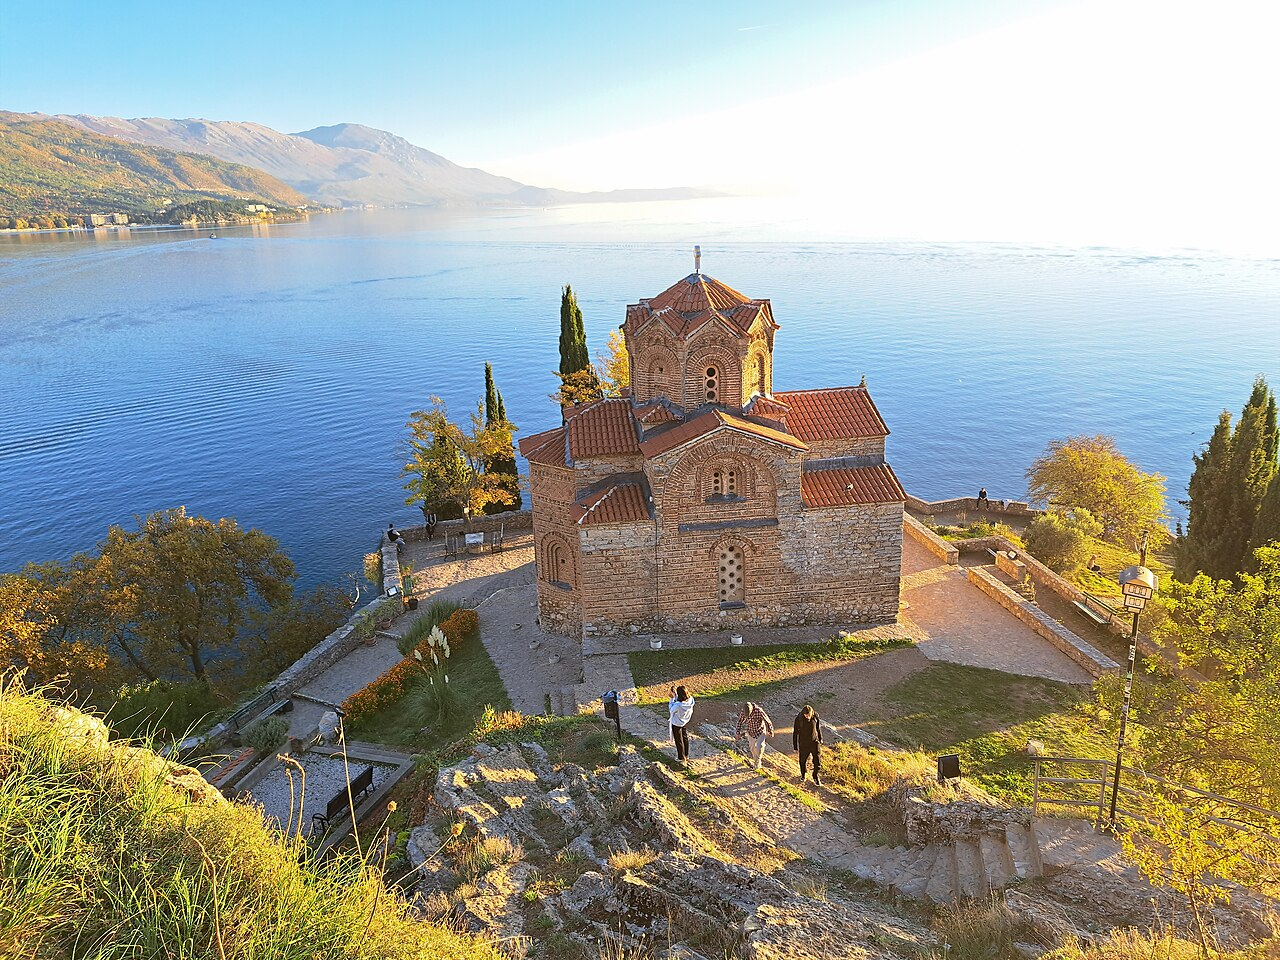
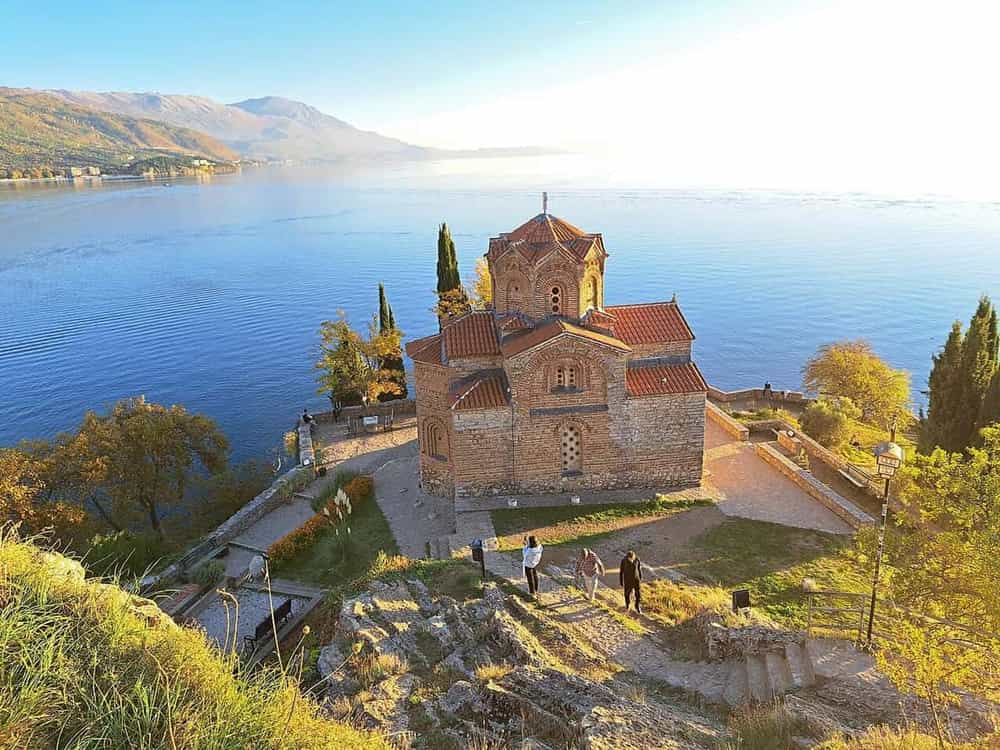
publish Skopje to Ohrid transport guide

diff --git a/src/content/articles/en/how-to-get-to-ohrid-from-skopje.md b/src/content/articles/en/how-to-get-to-ohrid-from-skopje.md
@@ -1,0 +1,148 @@
+---
+title: 'How to Get to Ohrid from Skopje (+ Airport)'
+description: 'How to get to Ohrid from Skopje by bus, private transfer or rental car, including the Skopje airport connection, times, costs and practical tips.'
+slug: 'how-to-get-to-ohrid-from-skopje'
+lang: 'en'
+category: 'transport'
+publishedAt: 2026-06-25
+updatedAt: 2026-06-25
+yearInTitle: false
+featuredOrder: 1
+cover:
+  src: '/images/how-to-get-to-ohrid-from-skopje/cover.webp'
+  alt: 'The main bus station in Skopje, where buses to Ohrid depart'
+coverCredit: 'Photo: CAPTAIN RAJU · CC0 · Wikimedia Commons'
+affiliate:
+  - partner: 'trip-transfers'
+    label: 'Compare private transfers from Skopje to Ohrid'
+    position: 'body-end'
+  - partner: 'car-rental'
+    label: 'Compare car hire in North Macedonia'
+    position: 'body-end'
+sources:
+  - 'Checked 2026-06-25: Skopska Avtobuska Stanica (SAS, sas.com.mk) — Skopje main bus station at Nikola Karev 20; domestic and international timetables depart from SAS.'
+  - 'Checked 2026-06-25: GetByBus / Gjirafa / FlixBus public listings — Skopje–Ohrid road distance roughly 173–182 km; typical bus duration about 3–4 h depending on operator and stops; schedules and prices change, so check current before travel.'
+  - 'Checked 2026-06-25: Skopje International Airport official passenger guide (skp.airports.com.mk) — shuttle bus to Skopje city / Central Bus Station; one-way ticket listed as 199 MKD; timetable tied to flights via the transport operator.'
+  - 'Checked 2026-06-25: Skopje Airport taxi information / Welcome Pickups public guide — official airport taxis use published fixed fares to Skopje city; private transfers to Ohrid should be pre-booked with a live quote.'
+  - 'Checked 2026-06-25: Ohrid St. Paul the Apostle Airport official guide and aviation AIP — airport is about 10 km northwest/west of Ohrid; ground transport is mainly taxi, transfer or car hire.'
+  - 'Image source: cover — File:Skopje Bus Station in 2025.03.jpg, CAPTAIN RAJU, CC0, Wikimedia Commons, https://commons.wikimedia.org/wiki/File:Skopje_Bus_Station_in_2025.03.jpg'
+  - 'Image source: Ohrid bus station — File:Ohrid Bus Station.jpg, David Bailey, CC BY-SA 2.0, Wikimedia Commons, https://commons.wikimedia.org/wiki/File:Ohrid_Bus_Station.jpg'
+  - 'Image source: Skopje bus platforms — File:Skopje bus station 02.jpg, David Bailey, CC BY-SA 2.0, Wikimedia Commons, https://commons.wikimedia.org/wiki/File:Skopje_bus_station_02.jpg'
+  - 'Image source: Ohrid airport — File:OHD Ohrid, Macedonia PP1344415347.jpg, Peter Bakema, GFDL 1.2, Wikimedia Commons, https://commons.wikimedia.org/wiki/File:OHD_Ohrid,_Macedonia_PP1344415347.jpg'
+  - 'Image source: Straza Pass — File:Straža-Pass 1210 m hoch.jpg, Christian1311, CC BY-SA 4.0, Wikimedia Commons, https://commons.wikimedia.org/wiki/File:Stra%C5%BEa-Pass_1210_m_hoch.jpg'
+draft: false
+---
+
+The simplest way to get to Ohrid from Skopje is the **direct intercity bus** from Skopje's main bus station, which usually takes about **3-4 hours** and is the best value for solo travellers. If you land at **Skopje Airport (SKP)** and want to go straight to the lake, there is **no direct airport bus to Ohrid**: take the airport shuttle into Skopje and change to a coach, pre-book a private transfer, or rent a car at the airport. Driving or a transfer takes roughly **2.5-3 hours** in normal conditions and is the most convenient option for families, late arrivals and road trips.
+
+Ohrid is not hard to reach, but the first decision matters. The cheap route starts in the city, not at the airport. The flexible route is a car. The low-stress route is a door-to-door transfer. Below is the practical breakdown, with the airport connection included and no fixed timetable copied from a site that may change tomorrow.
+
+## Quick answer: bus, transfer or car?
+
+| Option | Best for | Typical time | What to check |
+|---|---|---:|---|
+| **Bus from Skopje bus station** | Solo travellers, low budgets | about 3-4 h | Current SAS/operator timetable, seat availability, luggage fee |
+| **Private transfer / taxi** | Airport arrivals, families, late flights | about 2.5-3 h | Live quote, pickup point, vehicle size, cancellation terms |
+| **Rental car** | Road trips, beaches, St. Naum, Galicica | about 2.5-3 h | Deposit, insurance excess, parking in Ohrid, one-way drop fee |
+
+If you are already staying in Skopje, the bus is usually the cleanest answer. If your first night is in Ohrid and your flight lands at SKP, the bus still works, but it becomes a two-step journey: airport to Skopje Central Bus Station, then Skopje to Ohrid. That extra transfer is why many travellers choose a private transfer or collect a car at the airport.
+
+For the destination itself, pair this guide with [things to do in Ohrid](/cities/things-to-do-in-ohrid/). If you are spending time in the capital before leaving, start with [things to do in Skopje](/cities/things-to-do-in-skopje/).
+
+## Option 1: Skopje to Ohrid by bus
+
+The main bus route runs from **Skopje's main bus station**, the Skopska Avtobuska Stanica (SAS), to **Ohrid Bus Station**. The Skopje station is part of the Transportation Center, beside the railway station, and is the same hub used for most domestic and international coaches.
+
+<figure class="figure">
+<img src="/images/how-to-get-to-ohrid-from-skopje/g2-skopje-bus-platform.webp" alt="Bus platforms at Skopje bus station" width="800" height="536" loading="lazy" decoding="async" />
+<figcaption>Skopje's bus station is the practical starting point for the Ohrid coach. <span class="figure__credit">Photo: David Bailey · CC BY-SA 2.0 · Wikimedia Commons</span></figcaption>
+</figure>
+
+Public listings usually show multiple daily departures on the Skopje-Ohrid corridor, with a road distance around **173-182 km** and journey times mostly in the **3-4 hour** range. Treat those numbers as a planning range, not a promise. Operators, departure times and prices change by season, and summer weekends can be busier than the same route in winter. Check the current timetable on SAS or a bus booking aggregator shortly before you travel, then confirm at the station if your timing is tight.
+
+For tickets, the local method is still simple: go to the station, buy at the counter for the operator you are taking, and keep some **Macedonian denar (MKD)** in cash for tickets, luggage or small fees. Online booking appears on some aggregator sites, but domestic bus availability can be patchy, so the counter remains the most reliable fallback. In July and August, or before a weekend, buy earlier in the day rather than appearing five minutes before the departure you want.
+
+The arrival point, **Ohrid Bus Station**, is outside the old town but close enough for an easy taxi ride or a determined walk with light luggage. If you are staying inside the old town, remember that many lanes are steep and partly pedestrian; a taxi may only get you to the lower edge, and you may still have a short climb to your guesthouse.
+
+<figure class="figure">
+<img src="/images/how-to-get-to-ohrid-from-skopje/g1-ohrid-bus-station.webp" alt="The small Ohrid bus station building" width="800" height="600" loading="lazy" decoding="async" />
+<figcaption>Ohrid Bus Station is the arrival point for coaches from Skopje; take a short taxi onward if you have bags. <span class="figure__credit">Photo: David Bailey · CC BY-SA 2.0 · Wikimedia Commons</span></figcaption>
+</figure>
+
+The bus is the right choice if you are travelling light, arriving in Skopje city first, and do not need a car at the lake. It is less ideal if your flight lands late, your hotel is outside Ohrid town, or you plan to visit St. Naum, beaches, Galicica viewpoints and villages on your own schedule.
+
+## Option 2: private transfer or taxi
+
+A private transfer is the easiest way to go from **Skopje Airport or Skopje city directly to Ohrid**. The driver meets you at the terminal or hotel, the vehicle goes door to door, and you avoid the airport shuttle plus bus-station connection. In normal conditions, plan around **2.5-3 hours** by road, with extra buffer on summer Fridays, in winter weather or if roadworks slow the Kicevo-Ohrid section.
+
+This is the most comfortable option for:
+
+- late flights into SKP;
+- families or groups splitting the vehicle cost;
+- travellers with large luggage;
+- anyone staying outside central Ohrid;
+- first-time visitors who do not want to negotiate with taxis after a flight.
+
+Prices vary too much to hard-code. Some public transfer pages quote fixed examples, but the sensible advice is to **request a live quote** for your date, pickup address, number of passengers and luggage. Confirm whether the price is per vehicle, whether waiting time is included if your flight is delayed, and where the driver will meet you.
+
+If you prefer a Welcome Pickups-style meet-and-greet transfer, compare the current live quote against other private-transfer options and check the waiting-time policy before you pay.
+
+## Option 3: rent a car and drive
+
+Driving is the best option if Ohrid is only one part of a wider trip. The main route heads west/southwest from Skopje toward Tetovo, Gostivar and Kicevo before dropping into the Ohrid basin. The distance is roughly **170-180 km**, and a normal drive is about **2.5-3 hours** without a long stop. Parts of the route are fast motorway or dual carriageway, while the mountain sections are slower and more weather-sensitive.
+
+<figure class="figure">
+<img src="/images/how-to-get-to-ohrid-from-skopje/g4-straza-pass.webp" alt="The road crossing Straza Pass in western North Macedonia" width="1280" height="853" loading="lazy" decoding="async" />
+<figcaption>The drive west toward Ohrid crosses mountain country; allow extra time in poor weather. <span class="figure__credit">Photo: Christian1311 · CC BY-SA 4.0 · Wikimedia Commons</span></figcaption>
+</figure>
+
+A car makes sense if you want to use Ohrid as a base for **St. Naum**, lake beaches, **Galicica National Park**, Struga, Vevcani or a wider North Macedonia loop. It is less useful if you only want two nights in Ohrid old town, because parking can be awkward and the central sights are better on foot.
+
+Before booking, read the details in our [car rental in North Macedonia](/car-rental/renting-a-car-in-north-macedonia/) guide. The important points are the same here: compare the deposit and insurance excess, photograph the car at pickup, check whether your card is accepted for the security hold, and ask about one-way fees if you want to collect in Skopje and drop at Ohrid Airport or in Ohrid town.
+
+## From Skopje Airport to Ohrid
+
+This is the part travellers often misread. **Skopje International Airport (SKP) is not on the Ohrid bus route**, and there is no direct public bus from SKP to Ohrid. Your realistic choices are:
+
+1. **Airport shuttle to Skopje + bus to Ohrid.** The official airport guide lists a shuttle to Skopje city / Central Bus Station, with the ticket shown as **199 MKD** when checked on 2026-06-25. The timetable is tied to flight arrivals and departures, so check current times. From the bus station, take an Ohrid coach.
+2. **Private transfer from SKP to Ohrid.** This is the simplest door-to-door route and the best late-arrival choice. Get a live quote before travel.
+3. **Rental car at SKP.** Good if you are building a lake-and-mountains trip and want the car anyway.
+4. **Airport taxi to Skopje + onward bus.** Works if the shuttle timing is poor, but it still leaves you changing at the bus station.
+
+<figure class="figure">
+<img src="/images/how-to-get-to-ohrid-from-skopje/g3-ohrid-airport.webp" alt="The passenger terminal at Ohrid St. Paul the Apostle Airport" width="1200" height="800" loading="lazy" decoding="async" />
+<figcaption>Ohrid also has its own airport, but service is seasonal and ground transport is limited. <span class="figure__credit">Photo: Peter Bakema · GFDL 1.2 · Wikimedia Commons</span></figcaption>
+</figure>
+
+If you land in Skopje after the last useful Ohrid bus, do not force the connection. Sleep in Skopje and leave the next morning, book a transfer, or rent a car. For a first visit, an overnight in the capital is not wasted time; the Old Bazaar and the Stone Bridge are easy to cover before heading west.
+
+## What about Ohrid Airport?
+
+**Ohrid St. Paul the Apostle Airport (OHD)** sits about **10 km from Ohrid** and is very convenient when flights line up. The catch is that it is a smaller, seasonal airport, so it will not always have the route or date you need. Ground transport is also simpler than in Skopje: expect taxi, hotel pickup, pre-booked transfer or a rental car, and check current options before arrival.
+
+If you can fly into Ohrid and your trip is lake-focused, it saves the Skopje transfer entirely. If you are combining Skopje, Matka, Ohrid and the national parks, SKP plus a car or SKP plus bus may still be the better itinerary.
+
+## Which route should you choose?
+
+Choose the **bus** if you are budget-conscious, already in Skopje, and staying in Ohrid town. Choose a **private transfer** if you arrive at SKP and want the least friction, especially with luggage or children. Choose a **rental car** if you want to turn the transfer into a road trip and explore beyond Ohrid's old town.
+
+For many travellers, the best compromise is mixed: spend one or two nights in Skopje without a car, take the bus to Ohrid, then rent locally for one or two days to reach St. Naum, beaches and viewpoints. If you are doing the classic loop, the [7-day North Macedonia itinerary](/routes/north-macedonia-7-day-itinerary/) shows how the legs fit together.
+
+## Practical tips
+
+- **Check current times, not old blog posts.** Bus schedules and airport shuttle times change; use current SAS/operator pages and confirm at the station when needed.
+- **Carry denar.** Cards are improving, but bus counters, luggage fees and small taxis are easier with cash.
+- **Book summer Ohrid transport earlier.** July and August bring local holiday traffic and fuller buses.
+- **Do not rely on trains.** There is no passenger train to Ohrid.
+- **Add buffer from the airport.** Shuttle wait time plus bus-station transfer can turn a simple trip into a half-day.
+- **Think about your first night.** Late SKP arrivals are often better solved by sleeping in Skopje or booking a transfer.
+
+Once you arrive, keep the plan simple: base near the lake, walk the old town, and save any car time for the shore road, beaches and national park viewpoints. The transfer is only the first step; the reward is having Ohrid's churches, lanes and water within easy reach.
+
+## Read also
+
+- [Things to do in Ohrid](/cities/things-to-do-in-ohrid/) — what to do once you arrive
+- [Things to do in Skopje](/cities/things-to-do-in-skopje/) — useful if you break the journey in the capital
+- [Renting a car in North Macedonia](/car-rental/renting-a-car-in-north-macedonia/) — deposits, insurance and driving rules
+- [Getting around North Macedonia](/transport/) — the wider bus, taxi and car picture
+- [North Macedonia 7-day itinerary](/routes/north-macedonia-7-day-itinerary/) — how Skopje, Ohrid and Bitola fit together

diff --git a/KALENDAR.md b/KALENDAR.md
@@ -10,7 +10,7 @@
 
 ## Неделя 1 (24.06–28.06) — короткая: заполняем текущую неделю (Ср/Чт/Пт) — Доверие + логистика + Охрид-ядро
 - Ср 24.06 — [Статья] Is North Macedonia Safe for Tourists? · `is north macedonia safe` · /planning/is-north-macedonia-safe/ · категория planning · фото ≥5 · 💰 страховка · перелинк: → Worth Visiting, → Visa Requirements · кластер planning [head] — [x] ОПУБЛИКОВАНО 2026-06-24 (slug: is-north-macedonia-safe)
-- Чт 25.06 — [Статья] How to Get to Ohrid from Skopje (+ airport) · `how to get to ohrid from skopje` · /how-to-get-to-ohrid-from-skopje/ · категория routes · фото ≥5 · 💰 трансфер (Welcome Pickups), аренда · перелинк: → Things to Do in Ohrid, → Things to Do in Skopje, → Car Rental · кластер transport-routes [head]
+- [x] Чт 25.06 — [Статья] How to Get to Ohrid from Skopje (+ airport) · `how to get to ohrid from skopje` · /transport/how-to-get-to-ohrid-from-skopje/ · категория transport · фото 5 · 💰 трансфер/аренда · перелинк: Things to Do in Ohrid, Things to Do in Skopje, Car Rental · кластер transport-routes [head] — ОПУБЛИКОВАНО 2026-06-25 (en).
 - Пт 26.06 — [Статья] Ohrid Boat Trip to Sveti Naum (+ Bay of Bones) · `ohrid boat trip sveti naum` · /ohrid-boat-trip-sveti-naum/ · категория attractions · фото ≥5 · 💰 туры (GetYourGuide) · перелинк: → Things to Do in Ohrid, → How Many Days in Ohrid · кластер attractions-pois [head]
 - Замер GA и новости на этой неделе НЕ ставим (до baseline; первый замер — Пн 29.06).
 - Сб 27.06 / Вс 28.06 — свободны